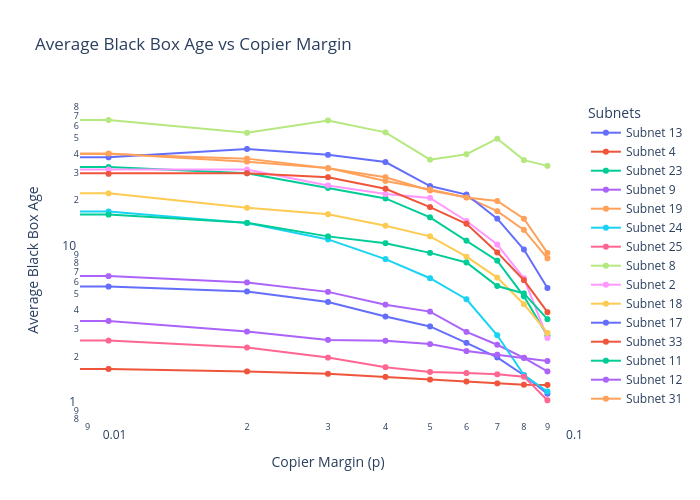
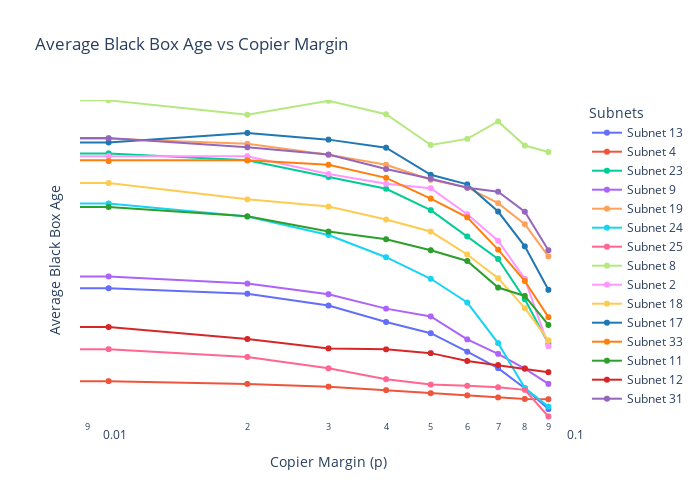
flake python management

diff --git a/scripts/example_plot_2.py b/scripts/example_plot_2.py
@@ -4,7 +4,8 @@ from collections import defaultdict
 import statistics
 import plotly.graph_objects as go
 from typing import DefaultDict
-
+import plotly.express as px
+import math
 
 def process_csv_file(file_path: str) -> DefaultDict[float, list[float]]:
     data: DefaultDict[float, list[float]] = defaultdict(list)
@@ -16,7 +17,6 @@ def process_csv_file(file_path: str) -> DefaultDict[float, list[float]]:
             data[p].append(age)
     return data
 
-
 def process_all_csv_files(directory: str) -> dict[int, DefaultDict[float, list[float]]]:
     subnet_data: dict[int, DefaultDict[float, list[float]]] = {}
     for filename in os.listdir(directory):
@@ -26,27 +26,31 @@ def process_all_csv_files(directory: str) -> dict[int, DefaultDict[float, list[f
             subnet_data[subnet] = process_csv_file(file_path)
     return subnet_data
 
-
 def calculate_average_ages(subnet_data: dict[int, DefaultDict[float, list[float]]]) -> dict[int, dict[float, float]]:
     avg_data: dict[int, dict[float, float]] = {}
     for subnet, data in subnet_data.items():
-        avg_data[subnet] = {p: statistics.mean(
-            ages) for p, ages in data.items()}
+        avg_data[subnet] = {p: statistics.mean(ages) for p, ages in data.items()}
     return avg_data
-
 
 def create_plot(avg_data: dict[int, dict[float, float]], output_folder: str) -> None:
     fig = go.Figure()
 
-    for subnet, data in avg_data.items():
+    # Generate a color palette with distinct colors
+    color_palette = px.colors.qualitative.Plotly + px.colors.qualitative.D3
+
+    max_y_value = 0
+
+    for i, (subnet, data) in enumerate(avg_data.items()):
         p_values: list[float] = sorted(data.keys())
         avg_ages: list[float] = [data[p] for p in p_values]
+        max_y_value = max(max_y_value, max(avg_ages))
 
         fig.add_trace(go.Scatter(
             x=p_values,
             y=avg_ages,
             mode='lines+markers',
-            name=f'Subnet {subnet}'
+            name=f'Subnet {subnet}',
+            line=dict(color=color_palette[i % len(color_palette)])
         ))
 
     fig.update_layout(
@@ -55,14 +59,30 @@ def create_plot(avg_data: dict[int, dict[float, float]], output_folder: str) -> 
         yaxis_title='Average Black Box Age',
         font=dict(size=12),
         xaxis=dict(type='log'),
-        yaxis=dict(type='log'),
+        yaxis=dict(
+            type='log',
+            range=[0, math.log10(max_y_value)],
+            showticklabels=False,
+        ),
         legend_title='Subnets',
         plot_bgcolor='white'
     )
 
+    # Add only the maximum y-axis value
+    fig.add_annotation(
+        x=0,
+        y=max_y_value,
+        xref="paper",
+        yref="y",
+        text=f"{max_y_value:.2f}",
+        showarrow=False,
+        yanchor="bottom",
+        xanchor="right",
+        xshift=-5,
+    )
+
     os.makedirs(output_folder, exist_ok=True)
-    output_path: str = os.path.join(
-        output_folder, "avg_black_box_age_vs_copier_margin.png")
+    output_path: str = os.path.join(output_folder, "avg_black_box_age_vs_copier_margin.png")
     fig.write_image(output_path)
     print(f"Plot saved as {output_path}")
 
